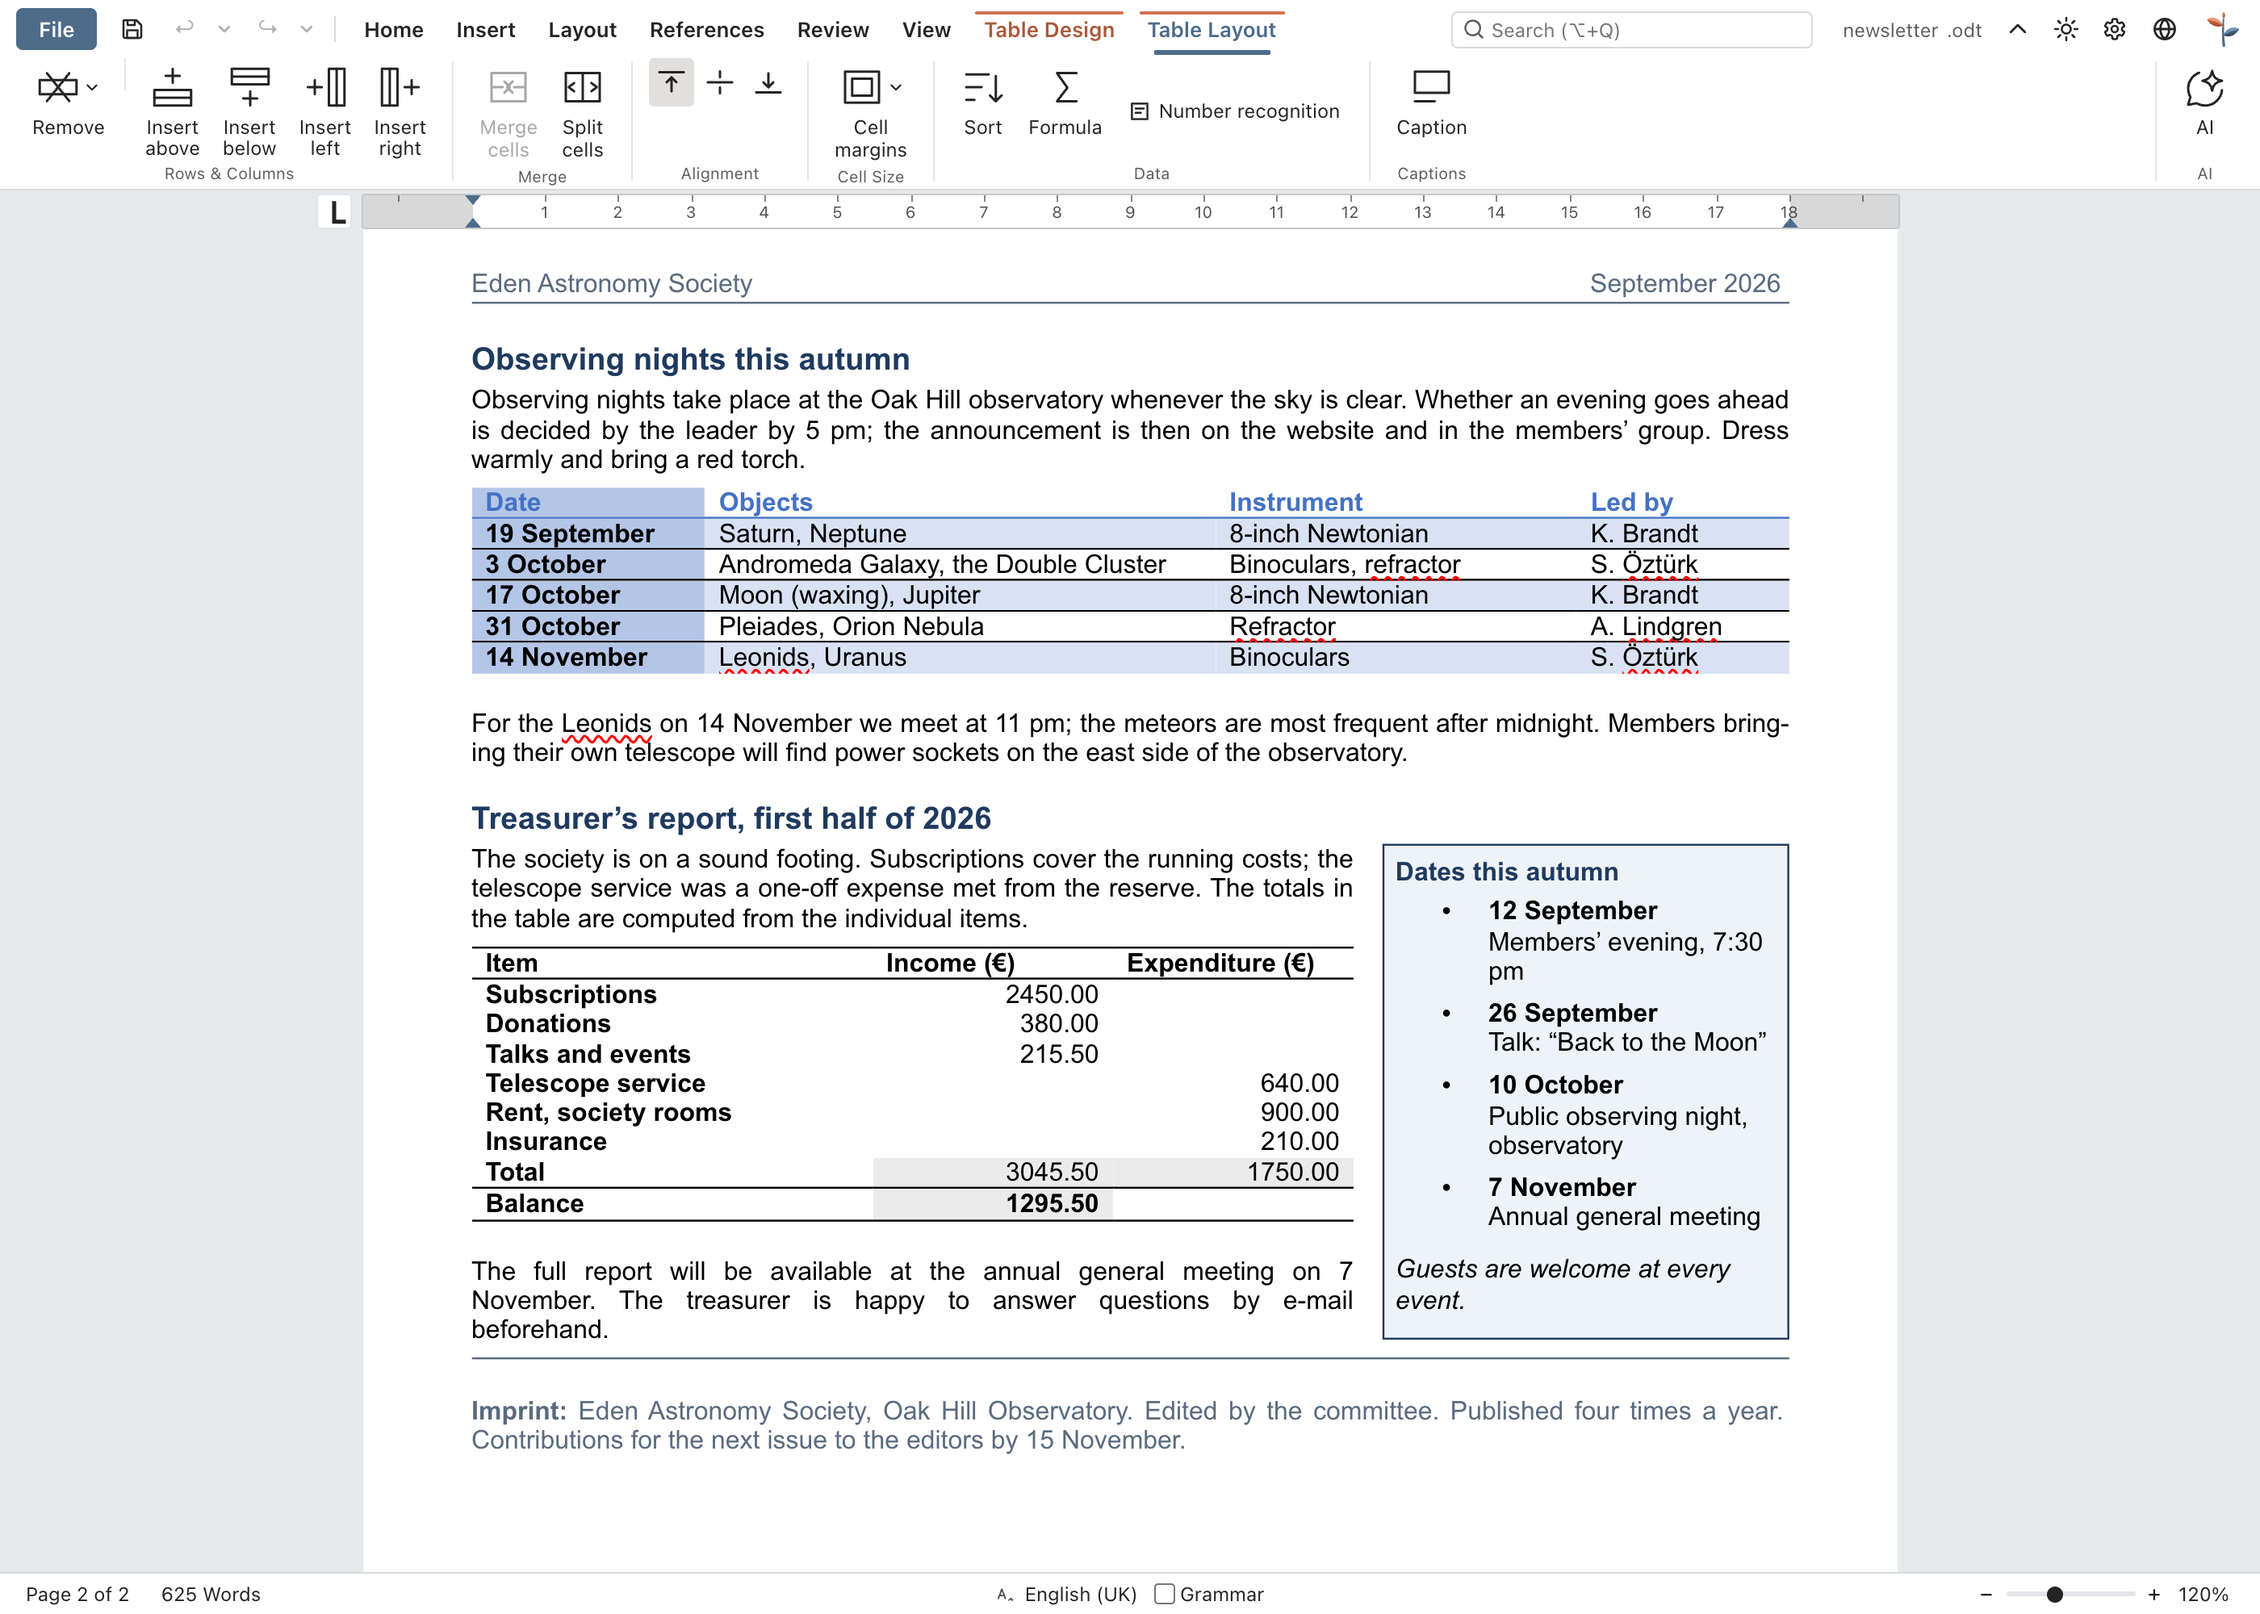
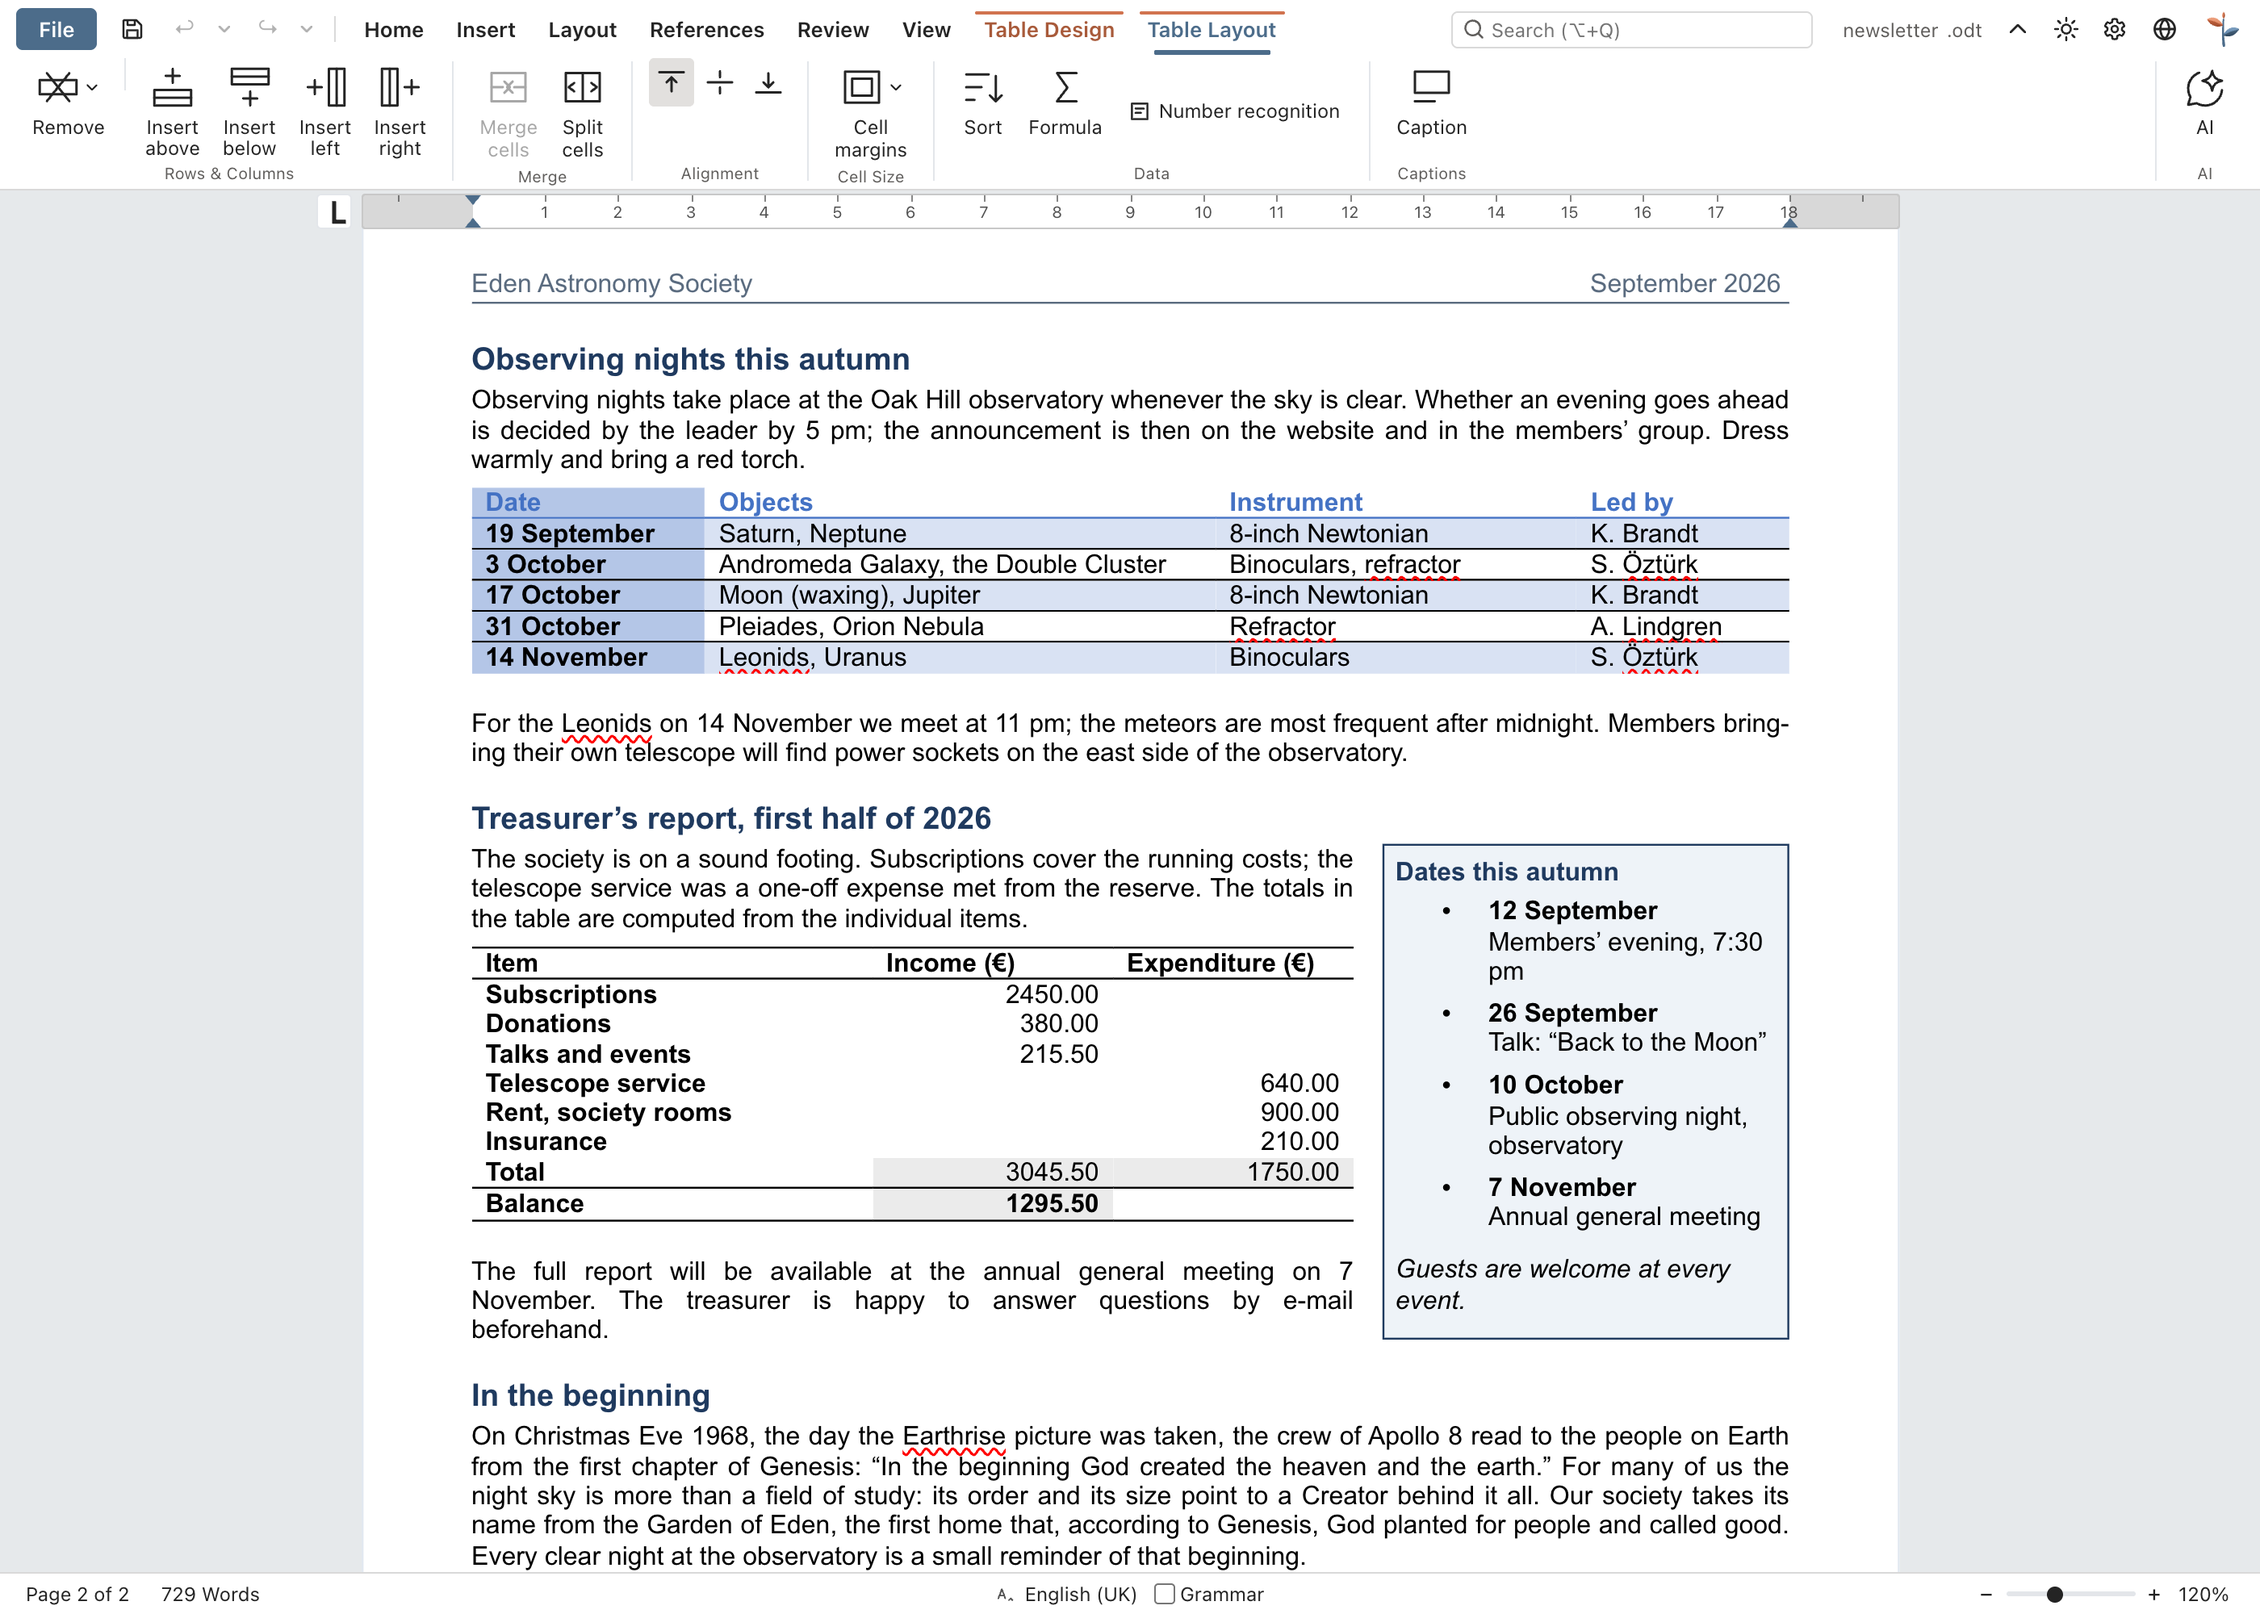
docs: showcase newsletter closes with a short section on Genesis and the society's name
- New Heading 2 section after the treasurer's report; the newsletter stays two pages
- .odt, .docx and screenshots regenerated

Changed region(s): [[0.1864, 0.837, 0.8079, 0.992]]

diff --git a/scripts/showcase/newsletter.ts b/scripts/showcase/newsletter.ts
@@ -97,6 +97,9 @@ export async function build(): Promise<Showcase> {
     P({ spaceAfter: 2 }, T('')),
     P(null, T('The full report will be available at the annual general meeting on 7 November. The treasurer is happy to answer questions by e-mail beforehand.')),
 
+    H(2, T('In the beginning')),
+    P(null, T('On Christmas Eve 1968, the day the Earthrise picture was taken, the crew of Apollo 8 read to the people on Earth from the first chapter of Genesis: “In the beginning God created the heaven and the earth.” For many of us the night sky is more than a field of study: its order and its size point to a Creator behind it all. Our society takes its name from the Garden of Eden, the first home that, according to Genesis, God planted for people and called good. Every clear night at the observatory is a small reminder of that beginning.')),
+
     P({ spaceBefore: 14, borderTop: '0.5pt solid #5A6B7F', borderPadding: 4 },
       T('Imprint: ', BOLD, GREY, SMALL),
       T('Eden Astronomy Society, Oak Hill Observatory. Edited by the committee. Published four times a year. Contributions for the next issue to the editors by 15 November.', GREY, SMALL)),
